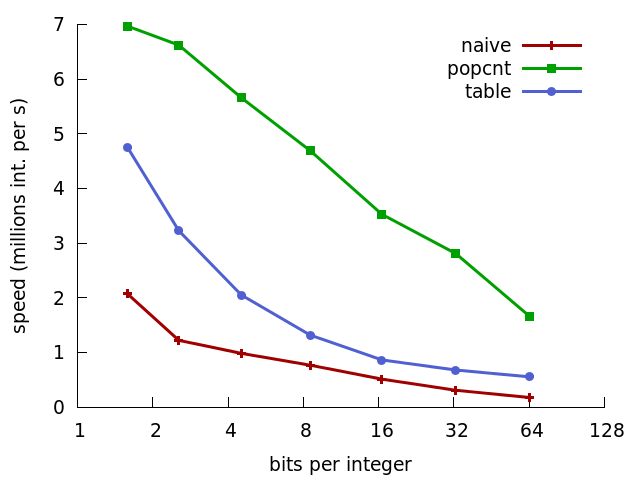
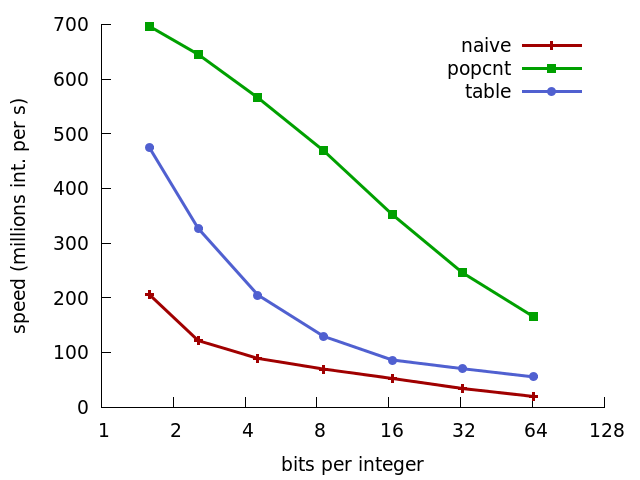
Another fix.

diff --git a/2015/01/08/unarydecoding.cpp b/2015/01/08/unarydecoding.cpp
@@ -406,9 +406,9 @@ int main() {
         assert (outputnaive == outputpopcnt);
         assert (outputnaive == outputtable);
         cout << bitsperinteger<<" " ;
-        cout << bitcount * 0.001 /tinaive <<" ";
-        cout << bitcount * 0.001 /tipopcnt <<" ";
-        cout << bitcount * 0.001 /titable <<" ";
+        cout << bitcount * repeat * 0.001 /tinaive <<" ";
+        cout << bitcount * repeat * 0.001 /tipopcnt <<" ";
+        cout << bitcount * repeat * 0.001 /titable <<" ";
         cout << endl ;
     }
 
